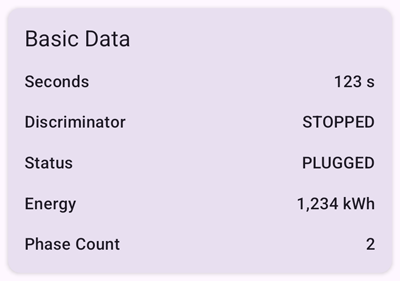
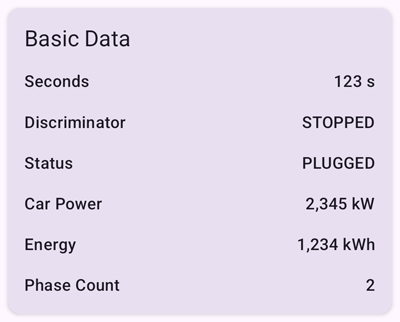
feat: Support Nexxtender Mobile carPower #69

diff --git a/app/src/main/java/be/cuypers_ghys/gaai/ui/device/DeviceDetailsScreen.kt b/app/src/main/java/be/cuypers_ghys/gaai/ui/device/DeviceDetailsScreen.kt
@@ -335,6 +335,7 @@ fun DeviceDetailsBody(
 
       GaaiChargingBasicDataCard(
         chargingBasicData = state.chargingBasicData,
+        chargerType = device?.type!!,
         modifier = Modifier
           .padding(dimensionResource(id = R.dimen.padding_small))
       )
@@ -558,6 +559,7 @@ internal fun GaaiDeviceInformationCard(
 /**
  * Implements a [Card] displaying the [chargingBasicData].
  * @param chargingBasicData The information to display.
+ * @param chargerType
  * @param modifier the [Modifier] to be applied to this GaaiChargingBasicDataCard
  *
  * @author Frank HJ Cuypers
@@ -565,7 +567,7 @@ internal fun GaaiDeviceInformationCard(
 @Composable
 // TODO: factorize to its own file, since it is also used in DeviceEntryViewModel.kt
 internal fun GaaiChargingBasicDataCard(
-  chargingBasicData: ChargingBasicData, modifier: Modifier = Modifier
+  chargingBasicData: ChargingBasicData, chargerType: ChargerType, modifier: Modifier = Modifier
 ) {
   Log.d(TAG, "ENTRY GaaiChargingBasicDataCard(chargingBasicData = $chargingBasicData)")
   Card(
@@ -630,6 +632,22 @@ internal fun GaaiChargingBasicDataCard(
             text = chargingBasicData.status.toString(),
             style = MaterialTheme.typography.titleMedium
           )
+        }
+        if (chargerType !=  ChargerType.HOME){
+          Row(
+            modifier = modifier.fillMaxWidth(),
+            verticalAlignment = Alignment.CenterVertically,
+          ) {
+            Text(
+              text = stringResource(R.string.car_power),
+              style = MaterialTheme.typography.titleMedium,
+            )
+            Spacer(Modifier.weight(1f))
+            Text(
+              text = "%.3f kW".format(chargingBasicData.rfu1CarPower.toFloat() / 1000.0),
+              style = MaterialTheme.typography.titleMedium
+            )
+          }
         }
         Row(
           modifier = modifier.fillMaxWidth(),
@@ -2269,8 +2287,9 @@ private fun ChargingBasicDataPreview() {
       GaaiChargingBasicDataCard(
         chargingBasicData = ChargingBasicData(
           seconds = 123u, discriminator = Discriminator.STOPPED,
-          status = Status.PLUGGED, energy = 1234u, phaseCount = 2u
+          status = Status.PLUGGED, rfu1CarPower = 2345u, energy = 1234u, phaseCount = 2u
         ),
+        ChargerType.MOBILE_BLACK,
         modifier = Modifier
           .padding(
             dimensionResource(id = R.dimen.padding_small)

diff --git a/app/src/test/java/be/cuypers_ghys/gaai/data/ChargingBasicDataParserTest.kt b/app/src/test/java/be/cuypers_ghys/gaai/data/ChargingBasicDataParserTest.kt
@@ -37,6 +37,7 @@ class ChargingBasicDataParserTest {
     expectedSeconds: Int,
     expectedDiscriminator: Discriminator,
     expectedStatus: Status,
+    expectedRfu1CarPower: UInt,
     expectedRawStatus: Int,
     expectedEnergy: Long,
     expectedPhaseCount: Int
@@ -46,6 +47,7 @@ class ChargingBasicDataParserTest {
     assertEquals(expectedSeconds.toUShort(), computedChargingBasicData!!.seconds)
     assertEquals(expectedDiscriminator, computedChargingBasicData.discriminator)
     assertEquals(expectedStatus, computedChargingBasicData.status)
+    assertEquals(expectedRfu1CarPower, computedChargingBasicData.rfu1CarPower)
     assertEquals(expectedRawStatus.toByte(), computedChargingBasicData.rawStatus)
     assertEquals(expectedEnergy.toUInt(), computedChargingBasicData.energy)
     assertEquals(expectedPhaseCount.toUByte(), computedChargingBasicData.phaseCount)
@@ -92,6 +94,7 @@ class ChargingBasicDataParserTest {
           0x03,
           Discriminator.CHARGING,
           Status.PLUGGED,
+          0,
           'B',
           0x12345678,
           1
@@ -101,6 +104,7 @@ class ChargingBasicDataParserTest {
           0xFFFF,
           Discriminator.STARTED,
           Status.CHARGING,
+          0,
           'C',
           0xA2A4A6A8,
           2
@@ -110,6 +114,7 @@ class ChargingBasicDataParserTest {
           0x3412,
           Discriminator.STOPPED,
           Status.CHARGING,
+          0,
           'D',
           0x00000000,
           3
@@ -119,6 +124,7 @@ class ChargingBasicDataParserTest {
           0x3412,
           Discriminator.UNKNOWN,
           Status.FAULT,
+          0,
           'E',
           0x11111111,
           4
@@ -128,6 +134,7 @@ class ChargingBasicDataParserTest {
           0x3412,
           Discriminator.UNKNOWN,
           Status.FAULT,
+          0,
           'F',
           0x11111111,
           4
@@ -137,6 +144,17 @@ class ChargingBasicDataParserTest {
           0x3412,
           Discriminator.UNKNOWN,
           Status.UNKNOWN,
+          0,
+          'G',
+          0x11111111,
+          4
+        ),
+        Arguments.of(
+          "1234044712345678111111110004".hexToByteArray(),
+          0x3412,
+          Discriminator.UNKNOWN,
+          Status.UNKNOWN,
+          0x78563412,
           'G',
           0x11111111,
           4

diff --git a/app/src/main/java/be/cuypers_ghys/gaai/data/ChargingBasicDataParser.kt b/app/src/main/java/be/cuypers_ghys/gaai/data/ChargingBasicDataParser.kt
@@ -65,9 +65,9 @@ object ChargingBasicDataParser {
       else -> Status.UNKNOWN
     }
 
-    val rfu1 = chargingBasicData.fromUint32LE(4)
-    if (rfu1 != 0u) {
-      Log.v(TAG, "rfu1 is not 0 but $rfu1")
+    val rfu1CarPower = chargingBasicData.fromUint32LE(4)
+    if (rfu1CarPower != 0u) {
+      Log.v(TAG, "rfu1_carPower is not 0 but $rfu1CarPower")
 //      return null
     }
 
@@ -86,6 +86,7 @@ object ChargingBasicDataParser {
       discriminator,
       status,
       rawStatus,
+      rfu1CarPower,
       energy,
       phaseCount
     )

diff --git a/app/src/main/java/be/cuypers_ghys/gaai/data/ChargingBasicData.kt b/app/src/main/java/be/cuypers_ghys/gaai/data/ChargingBasicData.kt
@@ -53,6 +53,12 @@ data class ChargingBasicData(
   /** Not yet decoded [status] */
   val rawStatus: Byte = 0,
 
+  /**
+   * RFU1 on Nexxtender Home.
+   * Total power consumption from the car in W on Nexxtender Mobile.
+   */
+  val rfu1CarPower: UInt = 0u,
+
   /** Total energy in Wh charged during this session? */
   val energy: UInt = 0u,
 

diff --git a/README.md b/README.md
@@ -401,13 +401,14 @@ The Basic Data card shows Basic *Nexxtender Home* and *Nexxtender Mobile* chargi
 
 ![Basic Data Card](docs/images/BasicDataCard.png)
 
-| Field         | Description                                               |
-|---------------|-----------------------------------------------------------|
-| Seconds       | Number of seconds since start of charging                 |
-| Discriminator | Possible discriminator states: STARTED, CHARGING, STOPPED |
-| Status        | Possible states: PLUGGED, CHARGING, FAULT                 |
-| Energy        | Total energy in kWh charged during this session           |
-| Phase count   | Charging Phase Count                                      |
+| Field         | Description                                                                   |
+|---------------|-------------------------------------------------------------------------------|
+| Seconds       | Number of seconds since start of charging                                     |
+| Discriminator | Possible discriminator states: STARTED, CHARGING, STOPPED                     |
+| Status        | Possible states: PLUGGED, CHARGING, FAULT                                     |
+| Car Power     | Total power consumption by the car. Only available for an *Nexxtender Mobile* |
+| Energy        | Total energy in kWh charged during this session                               |
+| Phase count   | Charging Phase Count                                                          |
 
 ### Grid Data
 